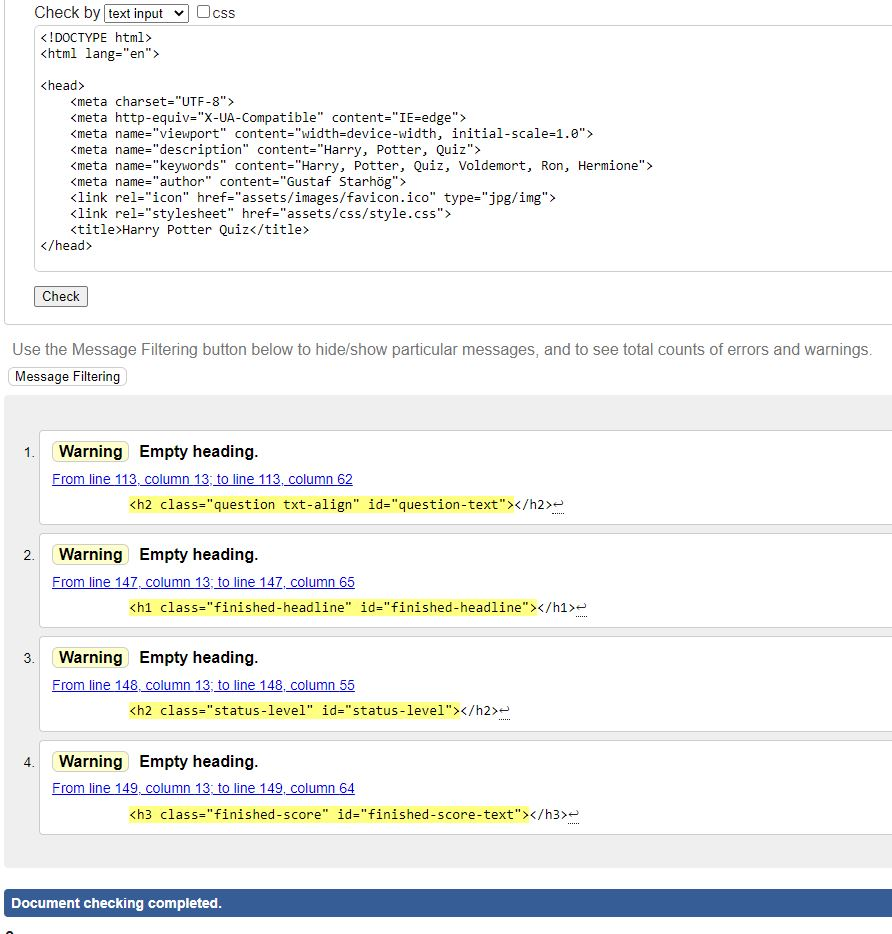
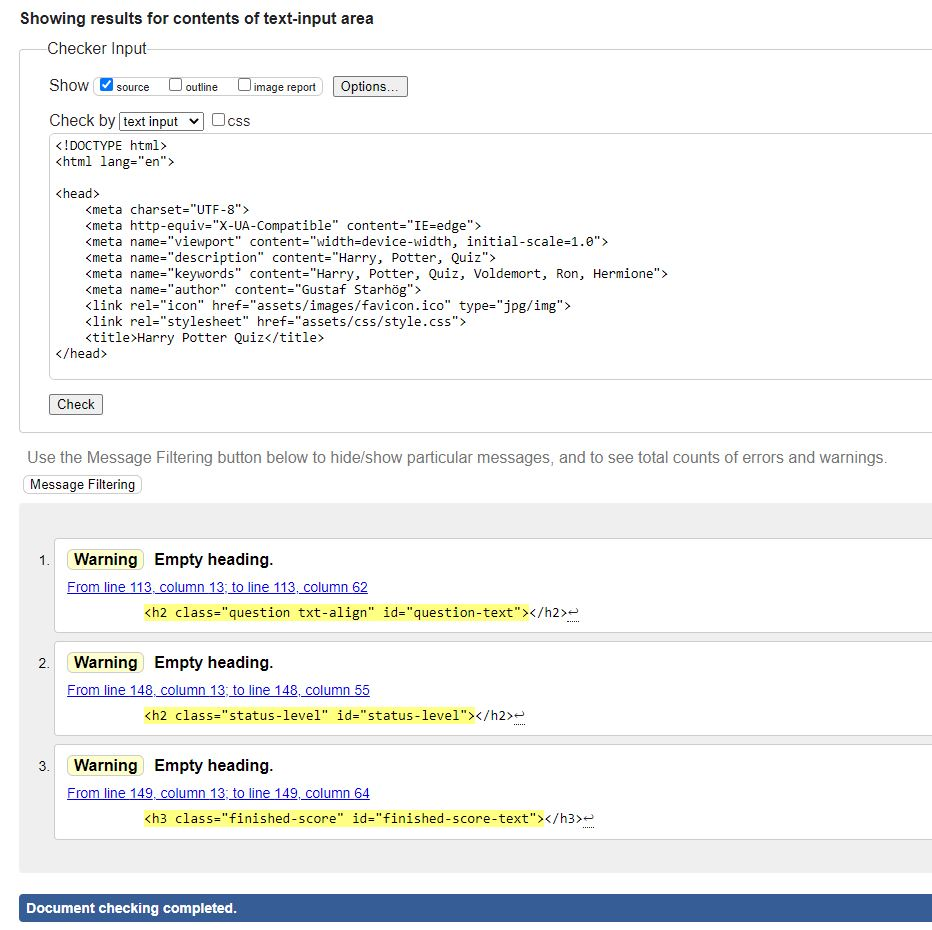
removed the information about the finished headline in the readme file as it is no longer a warning in the validator, updated the image of the validation

Changed region(s): [[0.0, 0.0, 1.0, 0.9043], [0.0, 0.9355, 1.0, 1.0]]

diff --git a/README.md b/README.md
@@ -126,9 +126,8 @@ The wireframes should not be considered finished product, but as a tool I used a
 ### HTML
 - W3C - HTML validator: (https://validator.w3.org/)
     - W3C Validator for HTML shows no errors on the index.html file.
-    - The W3C validator for HTML shows 4 warnings. These warnings are due to empty headlines in the HTML file. Line, 113,147,148,149. These headlines are empty because they are targetet with JavaScript to display information depending on the game and the users interaction and therefore have no static headline.
+    - The W3C validator for HTML shows 3 warnings. These warnings are due to empty headlines in the HTML file. Line, 113,147,148,149. These headlines are empty because they are targetet with JavaScript to display information depending on the game and the users interaction and therefore have no static headline.
         - Line 113: Targets by its ID, "question-text" in the script.js file to present the user with a question that the user shall answer in the game.
-        - Line 147: Targets by its ID, "finished-headline" in the script.js file to present the user with a greeting when they have finished the game.
         - Line 148: Targets by its ID, "status-level" in the script.js file to present the user with the username the user entered when starting the game, with a custom response depending on what score the user got.
         - Line 149: Targets by its ID, "finished-score-text" in the script.js file to present the user with the amount of correct answers they got out of the total amount of questions that were presented.
 ![Image of the HTML validation](/assets/images/html-validation.JPG)
